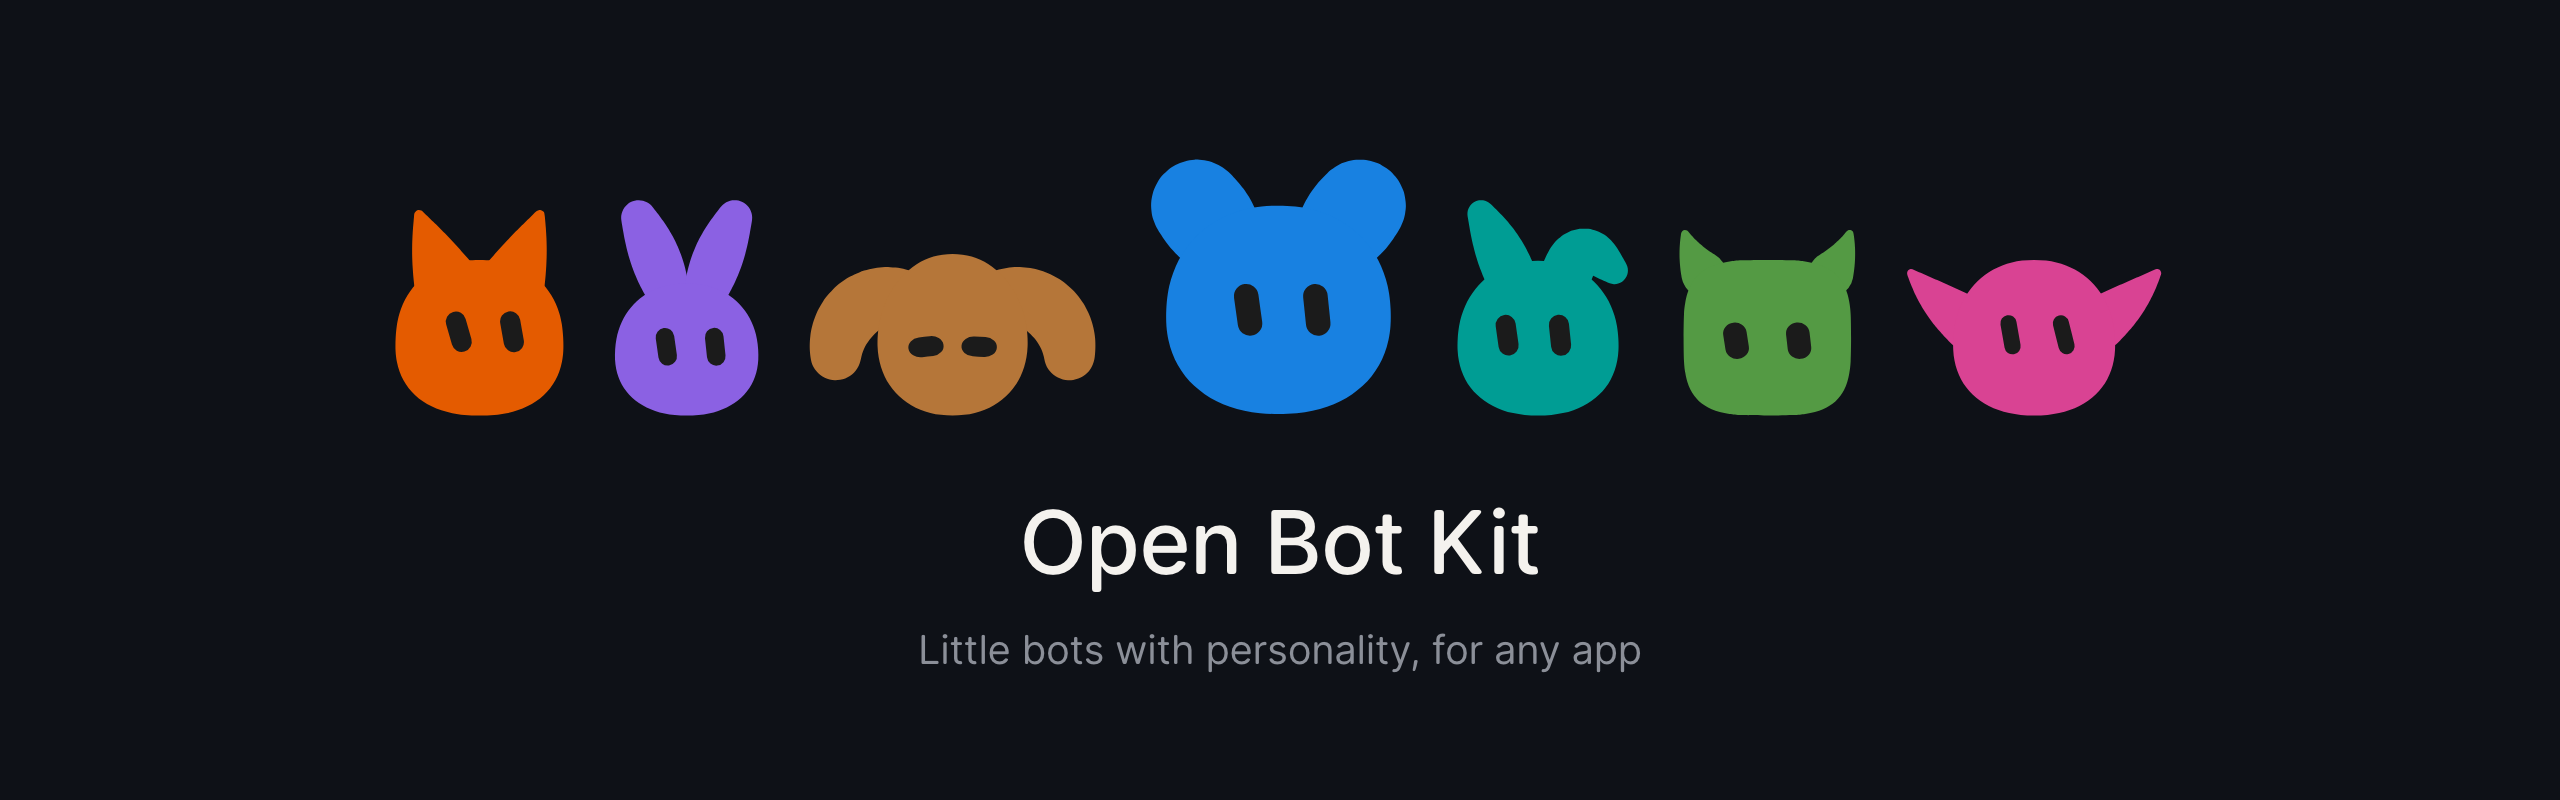
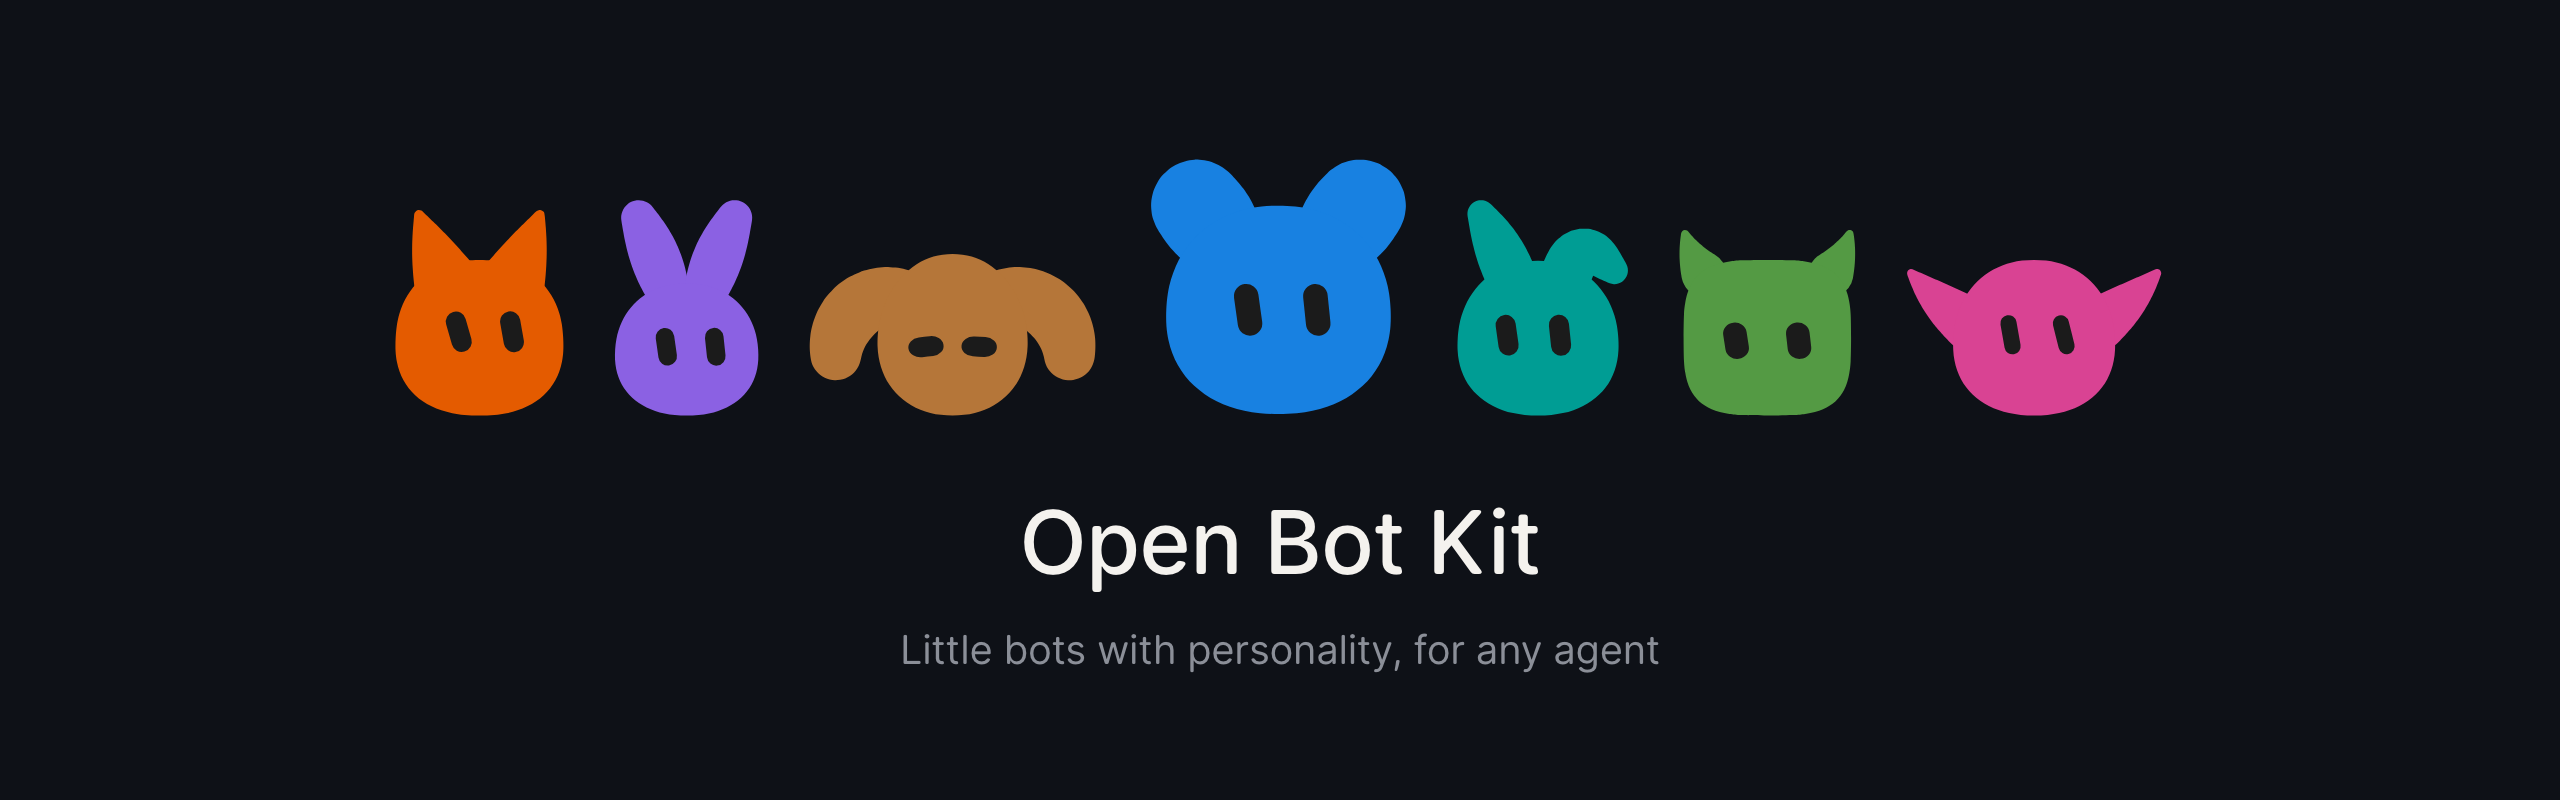
README: for any agent, and the bot API

Changed region(s): [[0.3438, 0.7812, 0.6562, 0.8438]]

diff --git a/README.md b/README.md
@@ -5,10 +5,35 @@
 
 # Open Bot Kit
 
-Little bots with personality, for any app. Each bot is a small SVG character that blinks, breathes, glances around and reacts, and every bot fits in a short share code.
+Little bots with personality, for any agent.
 
-Try it at [forgedaughter.com/bots](https://forgedaughter.com/bots).
+Give every agent a face. Each bot is a small character that blinks, breathes and glances around, listens while you talk to it, and fits in a short share code. Make yours at [forgedaughter.com/bots](https://forgedaughter.com/bots).
+
+## API
+
+Any name is a bot, the same one forever. Free, no key.
+
+```
+https://forgedaughter.com/bot/{name}.svg
+https://forgedaughter.com/bot/{name}.png
+```
+
+<p>
+  <img src="https://forgedaughter.com/bot/ada.svg?size=64" alt="ada" width="64">
+  <img src="https://forgedaughter.com/bot/hopper.svg?size=64" alt="hopper" width="64">
+  <img src="https://forgedaughter.com/bot/turing.svg?size=64&mood=happy" alt="turing, happy" width="64">
+  <img src="https://forgedaughter.com/bot/lovelace.svg?size=64" alt="lovelace" width="64">
+  <img src="https://forgedaughter.com/bot/babbage.svg?size=64&mood=sleepy" alt="babbage, sleepy" width="64">
+</p>
+
+| Option | |
+| --- | --- |
+| `.svg` `.png` | SVG for the web, PNG for email and chat apps. |
+| `?size=` | 16 to 1024 pixels, default 256. Small bots draw bolder. |
+| `?mood=` | idle, listening, happy, sleepy, content, smug, sad. |
+
+Use an agent or user ID as the name, never an email: the name is part of the address. A bot you made in the creator has a share code (`b1.…`), and that works as a name too. Bots never change, so browsers and CDNs can cache them.
 
 ## Status
 
-Early. The API is being designed, and the code still lives in [Forge Daughter](https://github.com/fredbergwitz/forge-daughter) until it moves here.
+Early. The code still lives in [Forge Daughter](https://github.com/fredbergwitz/forge-daughter) and moves here soon.
